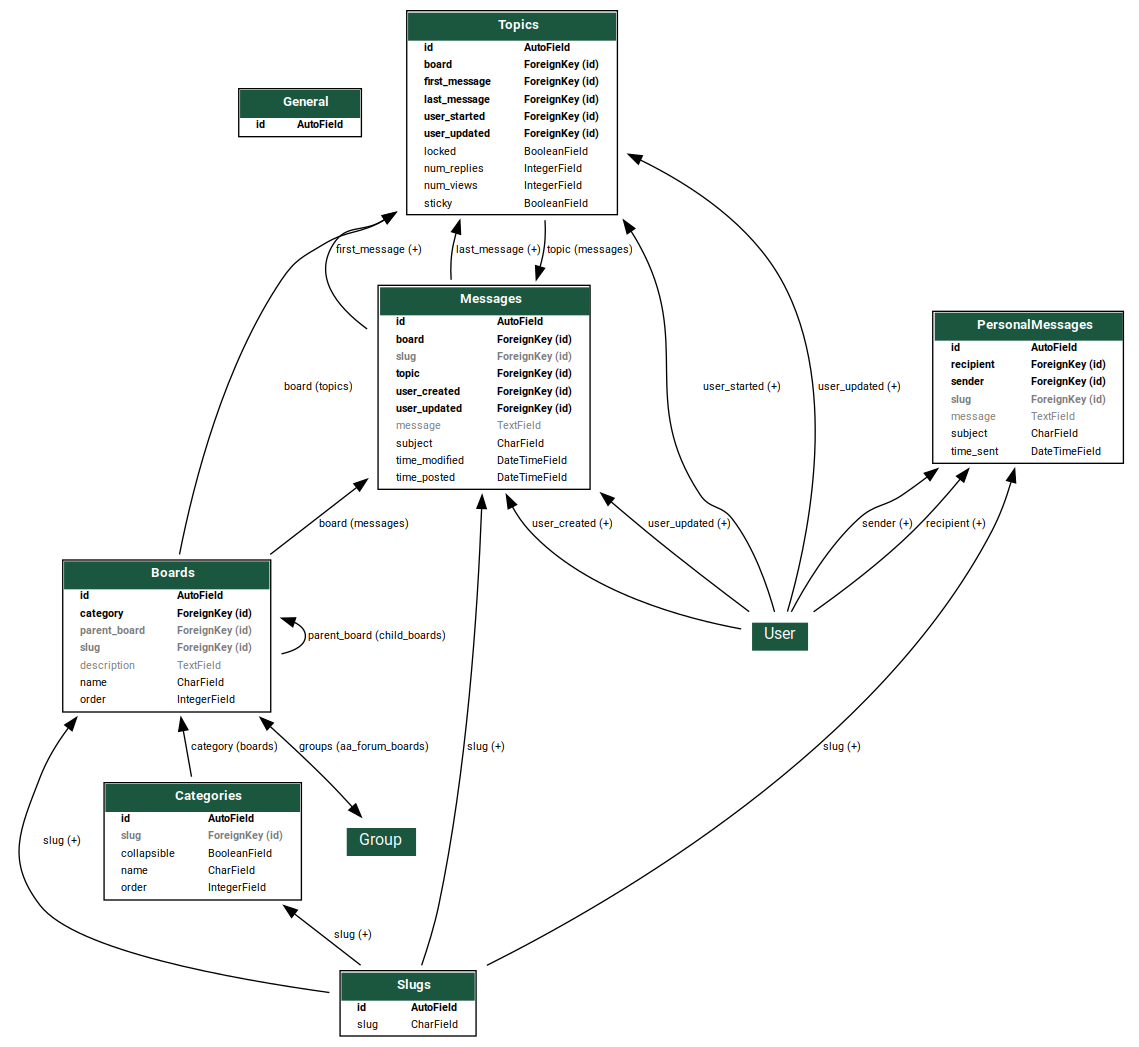
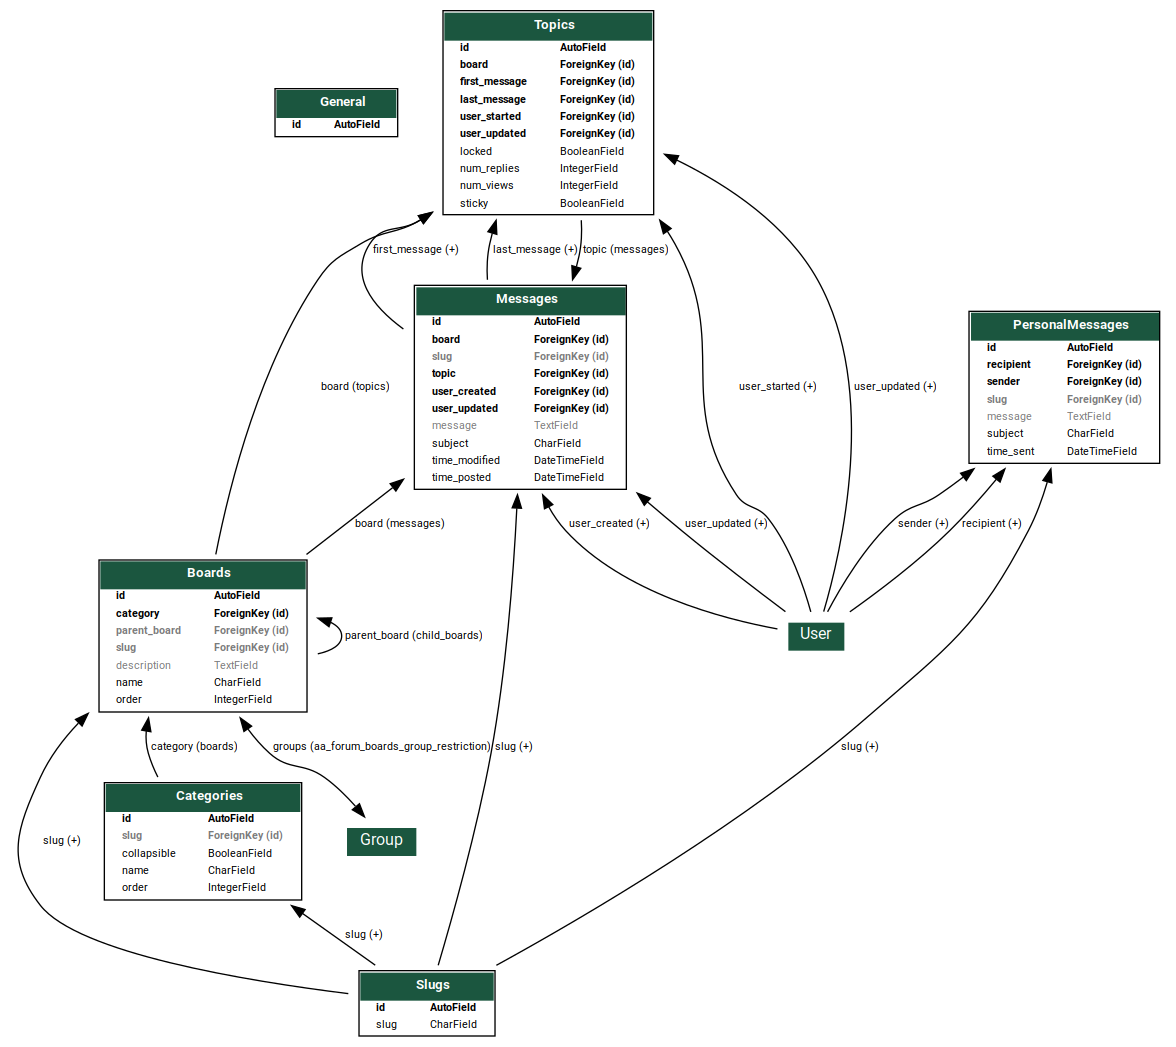
board view, part 2

diff --git a/aa_forum/static/aa_forum/css/aa-forum.min.css b/aa_forum/static/aa_forum/css/aa-forum.min.css
@@ -1,1 +1,1 @@
-:root{--bg-hover-transition: background-color 0.25s linear}@media all{.panel-aa-forum-category .aa-forum-category{align-content:center;align-items:baseline;display:flex;flex-direction:row;padding:1rem;transition:var(--bg-hover-transition)}.panel-aa-forum-category .aa-forum-category:last-child{margin-bottom:0}.panel-aa-forum-category .aa-forum-category:hover{background:rgba(0,0,0,.05)}.panel-aa-forum-category .aa-forum-category-image{margin-right:1rem}.panel-aa-forum-category .aa-forum-category-name{width:60%}.panel-aa-forum-category .aa-forum-category-stats{width:25%}.panel-aa-forum-category .aa-forum-category-last-post{width:15%}}
+:root{--bg-hover-transition: background-color 0.25s linear}@media all{.panel-aa-forum-category .aa-forum-category{align-content:center;align-items:baseline;display:flex;flex-direction:row;padding:1rem;transition:var(--bg-hover-transition)}.panel-aa-forum-category .aa-forum-category:last-child{margin-bottom:0}.panel-aa-forum-category .aa-forum-category:hover{background:rgba(0,0,0,.05)}.panel-aa-forum-category .aa-forum-category-image{margin-right:1rem}.panel-aa-forum-category .aa-forum-category-name{width:60%}.panel-aa-forum-category .aa-forum-category-stats{width:25%}.panel-aa-forum-category .aa-forum-category-last-post{width:15%}.aa-forum-text-board-group-restrictions{margin:0}.aa-forum-board-group-restrictions{list-style-type:none;margin:0;padding:0}}

diff --git a/aa_forum/templates/aa_forum/partials/forum/forum-index.html b/aa_forum/templates/aa_forum/partials/forum/forum-index.html
@@ -23,6 +23,13 @@
                             {% if board.description %}
                                 <p class="text-muted">{{ board.description }}</p>
                             {% endif %}
+
+                            {% if board.groups.all %}
+                                <p class="aa-forum-text-board-group-restrictions text-muted small">
+                                    {% translate "This board is restricted to the following group(s):" %}<br>
+                                    {{ board.groups.all|join:", "  }}
+                                </p>
+                            {% endif %}
                         </div>
 
                         <div class="aa-forum-category-stats">

diff --git a/aa_forum/static/aa_forum/css/aa-forum.css b/aa_forum/static/aa_forum/css/aa-forum.css
@@ -37,4 +37,14 @@
     .panel-aa-forum-category .aa-forum-category-last-post {
         width: 15%;
     }
+
+    .aa-forum-text-board-group-restrictions {
+        margin: 0;
+    }
+
+    .aa-forum-board-group-restrictions {
+        list-style-type: none;
+        margin: 0;
+        padding: 0;
+    }
 }

diff --git a/aa_forum/views/forum.py b/aa_forum/views/forum.py
@@ -61,11 +61,16 @@ def forum_board(
     """
 
     try:
-        board = Boards.objects.get(
-            Q(groups__in=request.user.groups.all()) | Q(groups__isnull=True),
-            category__slug__slug=category_slug,
-            slug__slug=board_slug,
+        board = (
+            Boards.objects.filter(
+                Q(groups__in=request.user.groups.all()) | Q(groups__isnull=True),
+                category__slug__slug__exact=category_slug,
+                slug__slug__exact=board_slug,
+            )
+            .distinct()
+            .get()
         )
+
     except Boards.DoesNotExist:
         board = None
 

diff --git a/aa_forum/migrations/0006_alter_boards_groups.py b/aa_forum/migrations/0006_alter_boards_groups.py
@@ -1,0 +1,23 @@
+# Generated by Django 3.2.4 on 2021-06-03 16:48
+
+from django.db import migrations, models
+
+
+class Migration(migrations.Migration):
+
+    dependencies = [
+        ("auth", "0012_alter_user_first_name_max_length"),
+        ("aa_forum", "0005_auto_20210603_1451"),
+    ]
+
+    operations = [
+        migrations.AlterField(
+            model_name="boards",
+            name="groups",
+            field=models.ManyToManyField(
+                blank=True,
+                related_name="aa_forum_boards_group_restriction",
+                to="auth.Group",
+            ),
+        ),
+    ]

diff --git a/aa_forum/models.py b/aa_forum/models.py
@@ -156,7 +156,7 @@ class Boards(models.Model):
     groups = models.ManyToManyField(
         Group,
         blank=True,
-        related_name="aa_forum_boards",
+        related_name="aa_forum_boards_group_restriction",
     )
 
     class Meta:
